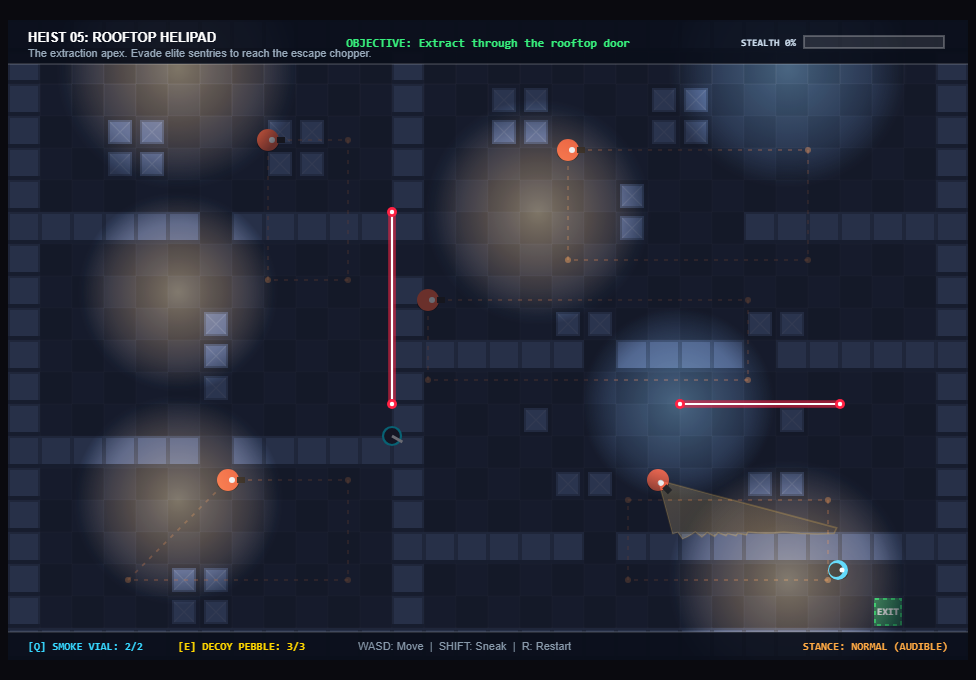
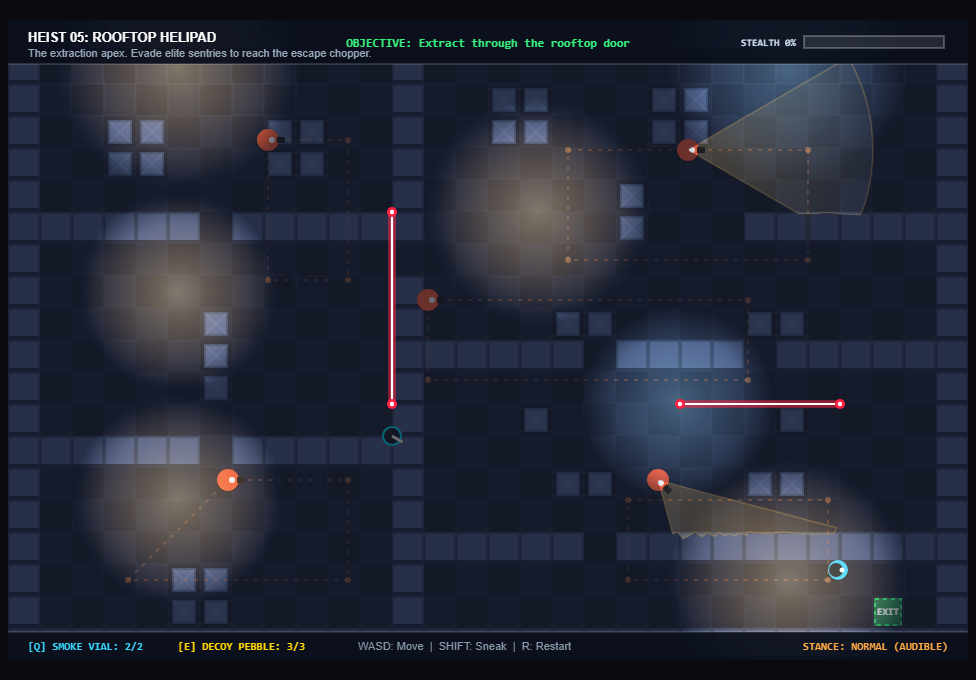
feat: complete stealth heist engine with 5 heists, route preview, gadgets & security

Changed region(s): [[0.6762, 0.1544, 0.8607, 0.3088], [0.5533, 0.1853, 0.6148, 0.2471], [0.8607, 0.3088, 0.8914, 0.3397]]

diff --git a/game/src/main.js b/game/src/main.js
@@ -1,14 +1,21 @@
 // main.js — Main game loop, state management, screenshot staging
 // Umbra: Midnight Observatory — Tactical stealth heist engine
+// Architecture:
+// 1. Line-of-sight raycasting & 2D dynamic shadows (LightingEngine, Guard._computeVisionPolygon)
+// 2. Multi-tier sentry state machine (Patrol -> Suspicious -> Alert -> Search -> Return)
+// 3. Facility countermeasures (Sweeping SecurityCameras, High-voltage LaserTripwires)
+// 4. Tactical distraction gadgets (Billowing Smoke Vials, Ballistic Pebble Decoys)
+// 5. 5 Distinct heist campaigns (Gallery, Clock Tower, Iron Archives, Observatory, Helipad)
+
 import { CANVAS_WIDTH, CANVAS_HEIGHT, GAME_STATE, COLORS } from './constants.js';
 import { InputManager } from './input.js';
 import { GameWorld } from './world.js';
 import { GameRenderer } from './renderer.js';
 
-const canvas = document.getElementById('gameCanvas');
-const input = new InputManager();
-const world = new GameWorld();
-const renderer = new GameRenderer(canvas);
+export const canvas = document.getElementById('gameCanvas');
+export const input = new InputManager();
+export const world = new GameWorld();
+export const renderer = new GameRenderer(canvas);
 
 let state = GAME_STATE.TITLE;
 
@@ -16,7 +23,7 @@ let state = GAME_STATE.TITLE;
 const params = new URLSearchParams(window.location.search);
 const shot = params.get('shot');
 
-function stageScreenshot(shotName) {
+export function stageScreenshot(shotName) {
   if (shotName === '1' || shotName === 'start' || shotName === 'cover') {
     // Shot 1: Midnight Observatory — Cover Infiltration, Camera Cones, Lasers & Pebble Distraction
     world.loadLevel(3);
@@ -31,29 +38,52 @@ function stageScreenshot(shotName) {
     world.gadgets.noiseRipples.push({
       x: 350,
       y: 240,
-      radius: 48,
+      radius: 52,
       maxRadius: 180,
-      alpha: 0.75,
+      alpha: 0.85,
     });
 
-    // Guard investigating pebble ripple
+    // Guard 0 investigating pebble ripple
     world.guards[0].x = 360;
     world.guards[0].y = 180;
     world.guards[0].angle = Math.PI / 2;
-    world.guards[0].detection = 0.28;
+    world.guards[0].detection = 0.32;
     world.guards[0].state = 'suspicious';
-    world.guards[0]._computeVisionPolygon(world.level.grid, world.gadgets);
 
-    // Active security camera and laser
+    // Position other sentries along their patrol paths
+    if (world.guards[1]) {
+      world.guards[1].x = 700;
+      world.guards[1].y = 140;
+      world.guards[1].angle = 0;
+    }
+    if (world.guards[2]) {
+      world.guards[2].x = 260;
+      world.guards[2].y = 440;
+      world.guards[2].angle = Math.PI / 2;
+    }
+    if (world.guards[3]) {
+      world.guards[3].x = 680;
+      world.guards[3].y = 440;
+      world.guards[3].angle = -Math.PI / 2;
+    }
+
+    // Compute vision polygons for all sentries
+    world.guards.forEach(g => g._computeVisionPolygon(world.level.grid, world.gadgets));
+
+    // Active surveillance camera sweep & high-voltage laser
     if (world.security.cameras[0]) {
       world.security.cameras[0].currentAngle = Math.PI / 2.2;
       world.security.cameras[0]._computeVisionPolygon(world.level.grid, world.gadgets);
+    }
+    if (world.security.cameras[1]) {
+      world.security.cameras[1].currentAngle = Math.PI / 2.5;
+      world.security.cameras[1]._computeVisionPolygon(world.level.grid, world.gadgets);
     }
     if (world.security.lasers[0]) {
       world.security.lasers[0].isActive = true;
     }
 
-    world.maxDetection = 0.28;
+    world.maxDetection = 0.32;
     state = GAME_STATE.PLAYING;
   } else if (shotName === '2' || shotName === 'play' || shotName === 'shadow') {
     // Shot 2: The Clock Tower — Smoke Screen Disruption & Shadow Navigation
@@ -64,9 +94,9 @@ function stageScreenshot(shotName) {
     world.player.isSneaking = true;
     world.player.angle = Math.PI / 2;
     world.player.footprints = [
-      { x: 180, y: 150, angle: Math.PI / 4, alpha: 0.25, isSneak: true },
-      { x: 200, y: 200, angle: Math.PI / 3, alpha: 0.45, isSneak: true },
-      { x: 220, y: 240, angle: Math.PI / 2.5, alpha: 0.65, isSneak: true },
+      { x: 180, y: 150, angle: Math.PI / 4, alpha: 0.3, isSneak: true },
+      { x: 200, y: 200, angle: Math.PI / 3, alpha: 0.5, isSneak: true },
+      { x: 220, y: 240, angle: Math.PI / 2.5, alpha: 0.7, isSneak: true },
     ];
 
     // Deploy billowing smoke screen in central corridor
@@ -77,13 +107,19 @@ function stageScreenshot(shotName) {
     world.guards[0].y = 180;
     world.guards[0].angle = Math.PI / 2;
     world.guards[0].state = 'suspicious';
-    world.guards[0].detection = 0.35;
-    world.guards[0]._computeVisionPolygon(world.level.grid, world.gadgets);
+    world.guards[0].detection = 0.38;
 
     world.guards[1].x = 220;
     world.guards[1].y = 440;
     world.guards[1].angle = -Math.PI / 2;
-    world.guards[1]._computeVisionPolygon(world.level.grid, world.gadgets);
+
+    if (world.guards[2]) {
+      world.guards[2].x = 750;
+      world.guards[2].y = 200;
+      world.guards[2].angle = 0;
+    }
+
+    world.guards.forEach(g => g._computeVisionPolygon(world.level.grid, world.gadgets));
 
     state = GAME_STATE.PLAYING;
   } else if (shotName === '3' || shotName === 'alert' || shotName === 'tension') {
@@ -94,17 +130,28 @@ function stageScreenshot(shotName) {
     world.player.inCover = true;
     world.player.isSneaking = true;
 
-    // Laser tripwire active right near corridor
-    if (world.security.lasers[0]) {
-      world.security.lasers[0].isActive = true;
-    }
+    // Laser tripwires active
+    if (world.security.lasers[0]) world.security.lasers[0].isActive = true;
+    if (world.security.lasers[1]) world.security.lasers[1].isActive = true;
 
     world.guards[1].x = 480;
     world.guards[1].y = 180;
     world.guards[1].angle = Math.PI * 0.9;
     world.guards[1].detection = 0.88;
     world.guards[1].state = 'alert';
-    world.guards[1]._computeVisionPolygon(world.level.grid, world.gadgets);
+
+    if (world.guards[0]) {
+      world.guards[0].x = 150;
+      world.guards[0].y = 220;
+      world.guards[0].angle = Math.PI / 2;
+    }
+    if (world.guards[2]) {
+      world.guards[2].x = 600;
+      world.guards[2].y = 350;
+      world.guards[2].angle = 0;
+    }
+
+    world.guards.forEach(g => g._computeVisionPolygon(world.level.grid, world.gadgets));
 
     world.maxDetection = 0.88;
     state = GAME_STATE.PLAYING;
@@ -121,6 +168,13 @@ function stageScreenshot(shotName) {
     world.guards[4].y = 460;
     world.guards[4].angle = Math.PI / 4;
     world.guards[4]._computeVisionPolygon(world.level.grid, world.gadgets);
+
+    if (world.guards[1]) {
+      world.guards[1].x = 680;
+      world.guards[1].y = 130;
+      world.guards[1].angle = 0;
+      world.guards[1]._computeVisionPolygon(world.level.grid, world.gadgets);
+    }
 
     if (world.security.cameras[2]) {
       world.security.cameras[2].currentAngle = Math.PI / 6;
@@ -144,15 +198,15 @@ function stageScreenshot(shotName) {
   requestAnimationFrame(renderShot);
 }
 
-function renderTitleScreen() {
+export function renderTitleScreen() {
   const ctx = renderer.ctx;
 
   // Background ambiance
-  ctx.fillStyle = '#080812';
+  ctx.fillStyle = '#0a0e1c';
   ctx.fillRect(0, 0, CANVAS_WIDTH, CANVAS_HEIGHT);
 
   // Decorative grid lines
-  ctx.strokeStyle = 'rgba(68, 204, 255, 0.05)';
+  ctx.strokeStyle = 'rgba(56, 216, 255, 0.08)';
   ctx.lineWidth = 1;
   for (let x = 0; x < CANVAS_WIDTH; x += 40) {
     ctx.beginPath();
@@ -168,12 +222,12 @@ function renderTitleScreen() {
   }
 
   // Title Logo
-  ctx.fillStyle = '#44ccff';
+  ctx.fillStyle = '#38d8ff';
   ctx.font = 'bold 42px sans-serif';
   ctx.textAlign = 'center';
   ctx.fillText('UMBRA: MIDNIGHT OBSERVATORY', CANVAS_WIDTH / 2, 175);
 
-  ctx.fillStyle = '#8899aa';
+  ctx.fillStyle = '#99aabb';
   ctx.font = '15px monospace';
   ctx.fillText('Art-Deco Tactical Stealth Heist Engine', CANVAS_WIDTH / 2, 215);
 
@@ -192,22 +246,22 @@ function renderTitleScreen() {
 
   // Prompt to Start (pulsing)
   const pulseAlpha = (Math.sin(Date.now() * 0.005) + 1) * 0.4 + 0.2;
-  ctx.fillStyle = `rgba(68, 255, 136, ${pulseAlpha})`;
+  ctx.fillStyle = `rgba(56, 239, 125, ${pulseAlpha})`;
   ctx.font = 'bold 17px monospace';
   ctx.fillText('[ PRESS SPACE OR CLICK TO INFILTRATE ]', CANVAS_WIDTH / 2, 425);
 
   // Controls Guide
-  ctx.fillStyle = '#556677';
+  ctx.fillStyle = '#667788';
   ctx.font = '12px sans-serif';
   ctx.fillText('WASD: Move  |  SHIFT: Silent Sneak  |  Q: Smoke  |  E: Pebble Decoy  |  R: Reset', CANVAS_WIDTH / 2, 510);
 }
 
-function renderVictoryScreen() {
+export function renderVictoryScreen() {
   const ctx = renderer.ctx;
-  ctx.fillStyle = 'rgba(8, 24, 16, 0.90)';
+  ctx.fillStyle = 'rgba(8, 28, 18, 0.92)';
   ctx.fillRect(0, 0, CANVAS_WIDTH, CANVAS_HEIGHT);
 
-  ctx.fillStyle = '#44ff88';
+  ctx.fillStyle = '#38ef7d';
   ctx.font = 'bold 36px sans-serif';
   ctx.textAlign = 'center';
   ctx.fillText('SECTOR SECURED: EXTRACTION COMPLETE', CANVAS_WIDTH / 2, 230);
@@ -221,9 +275,9 @@ function renderVictoryScreen() {
   ctx.fillText('[ PRESS SPACE TO PROCEED TO NEXT HEIST ]', CANVAS_WIDTH / 2, 370);
 }
 
-function renderCaughtScreen() {
+export function renderCaughtScreen() {
   const ctx = renderer.ctx;
-  ctx.fillStyle = 'rgba(28, 8, 8, 0.92)';
+  ctx.fillStyle = 'rgba(32, 10, 10, 0.94)';
   ctx.fillRect(0, 0, CANVAS_WIDTH, CANVAS_HEIGHT);
 
   ctx.fillStyle = '#ff3333';
@@ -240,7 +294,7 @@ function renderCaughtScreen() {
   ctx.fillText('[ PRESS R OR SPACE TO RETRY HEIST ]', CANVAS_WIDTH / 2, 370);
 }
 
-function gameLoop() {
+export function gameLoop() {
   input.update();
 
   if (state === GAME_STATE.TITLE) {
